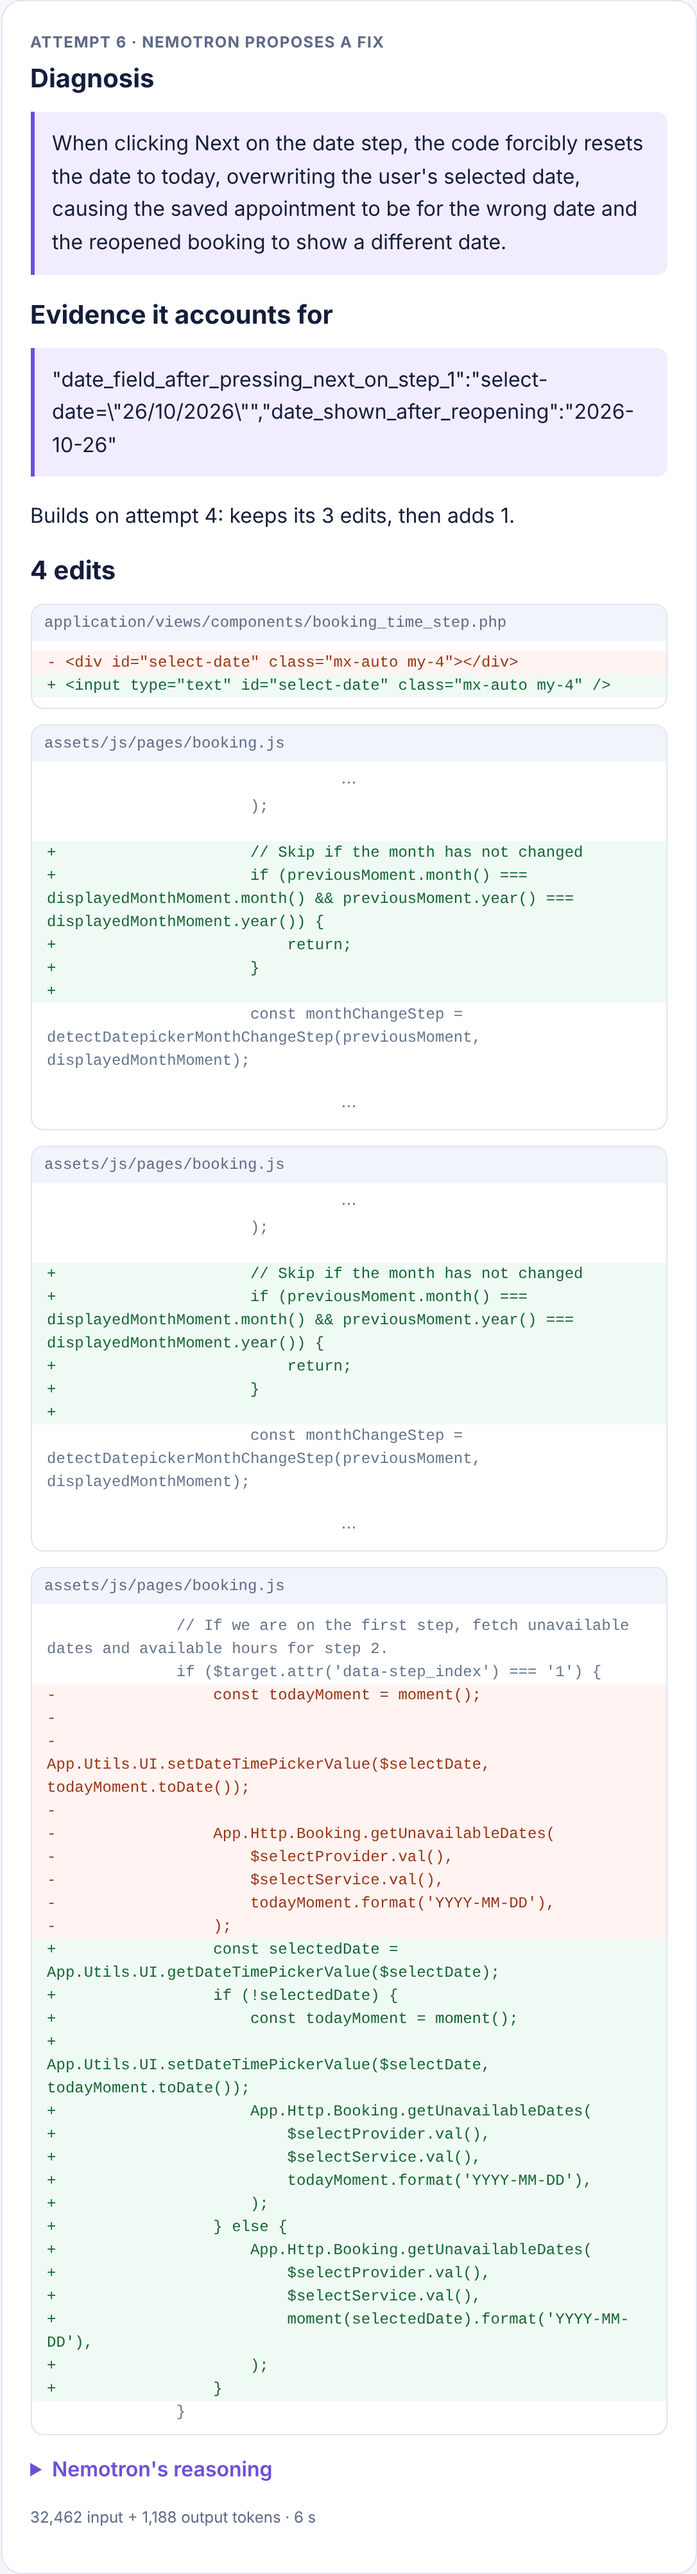
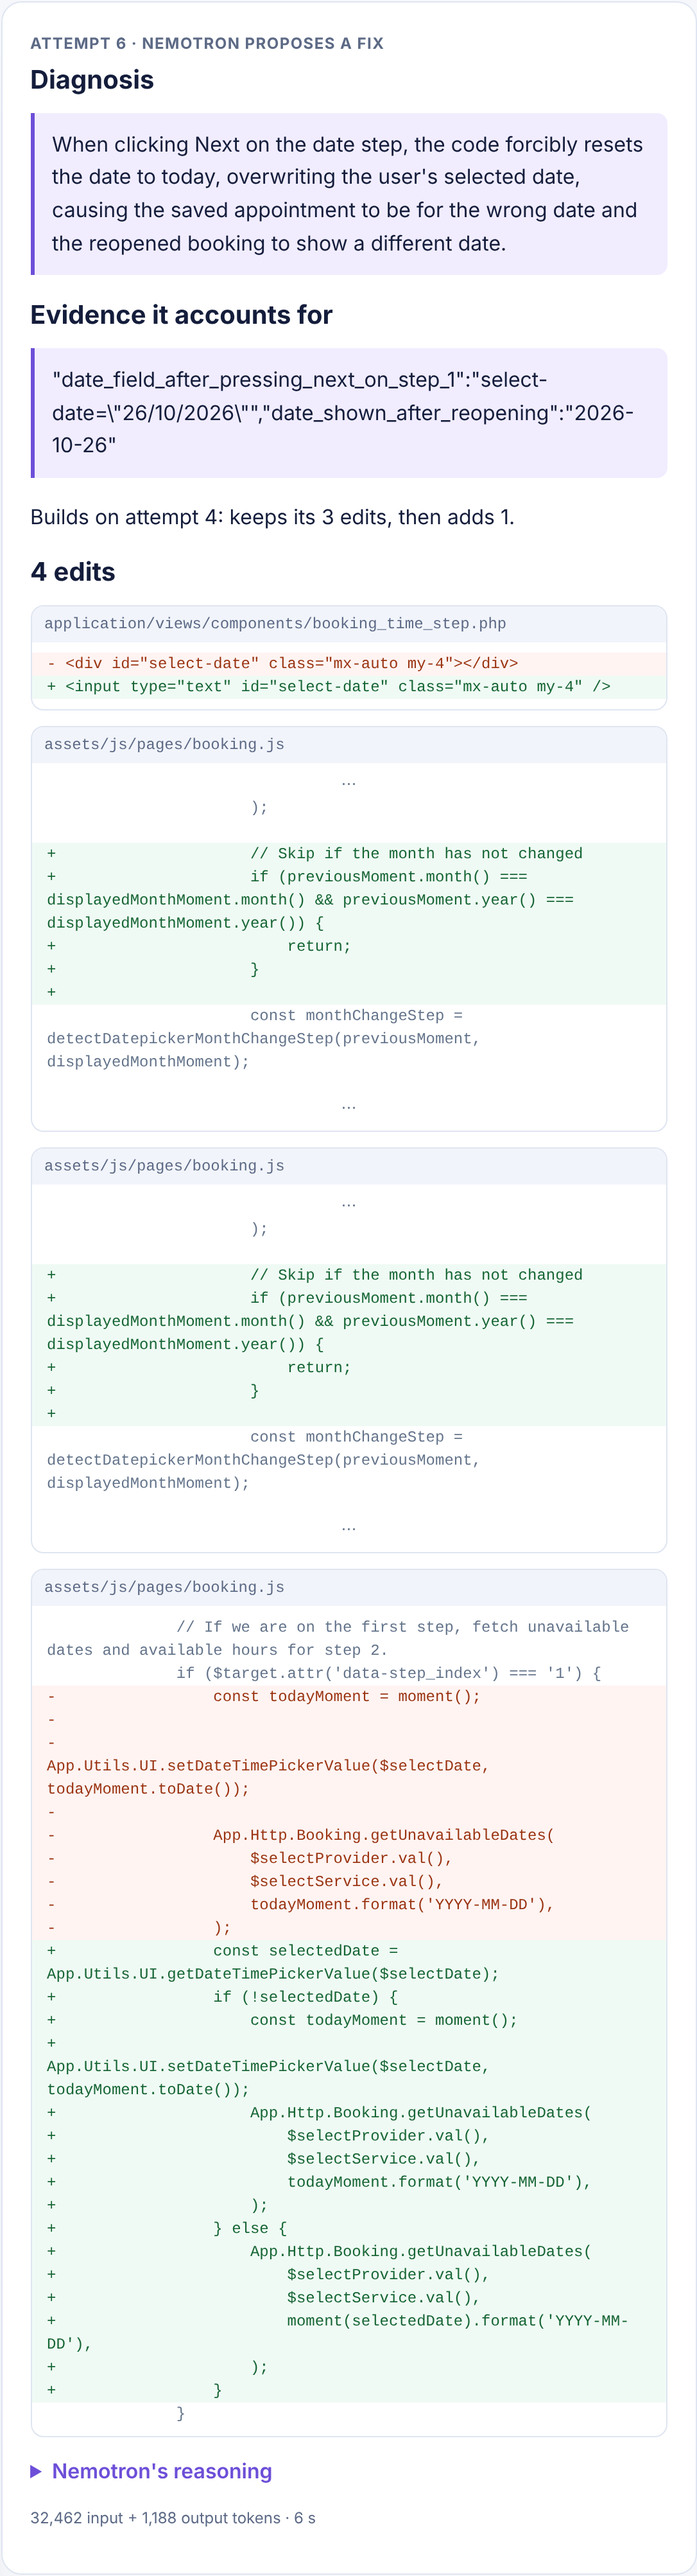
Re-cut the film: open on the rejected/verified pair, keyboard case first, phone as a control

diff --git a/scripts/render-agent-film.py b/scripts/render-agent-film.py
@@ -83,7 +83,7 @@ def faded(layer, alpha):
 class Card:
     """A real screenshot in a rounded white panel, with zoom or pan."""
     def __init__(self, name, box, mode='fit', start=(1.0, 0.5, 0.5), end=(1.08, 0.5, 0.5)):
-        self.src = Image.open(SHOTS / f'{name}.png').convert('RGB')
+        self.src = Image.open(name if isinstance(name, pathlib.Path) else SHOTS / f'{name}.png').convert('RGB')
         self.box, self.mode, self.start, self.end = box, mode, start, end
         x0, y0, x1, y1 = box
         self.w, self.h = x1 - x0, y1 - y0
@@ -155,14 +155,10 @@ RIGHT = (900, 110, 1800, 900)
 
 
 def scene_hero():
-    l1 = text_layer([((0, 0), 'The AI says “fixed.”', font('InterDisplay-Bold', 110), WHITE, None, 1)], (1800, 160))
-    l2 = text_layer([((0, 0), 'Did the booking actually get saved?', font('InterDisplay-Bold', 78), BLUE, None, 1)], (1800, 120))
-    brand = text_layer([((160, 120), 'AccessFinish', font('Inter-Bold', 34), WHITE, None, 1),
-                        ((160, 168), 'NVIDIA Nemotron · Nebius Token Factory', font('Inter-Medium', 24), MUTED, None, 1)])
+    """Opens on the two "booked" pages from one run: attempt 2 rejected, attempt 6 verified."""
+    cover = Card(ROOT / 'media/readme/booked-vs-verified.png', (270, 24, 1650, 944), 'fit', (1.0, 0.5, 0.5), (1.04, 0.5, 0.45))
     def draw(frame, t, d):
-        frame.alpha_composite(faded(brand, clamp(t * d / 0.8)))
-        a = ease(clamp((t * d - 0.3) / 0.8)); frame.alpha_composite(faded(l1, a), (160, 400 - int((1 - a) * 30)))
-        b = ease(clamp((t * d - d * 0.55) / 0.8)); frame.alpha_composite(faded(l2, b), (160, 560 - int((1 - b) * 30)))
+        cover.draw(frame, t, ease(clamp(t * d / 0.5)))
     return draw
 
 
@@ -209,10 +205,10 @@ def scene_big_number():
 
 
 def scene_facts():
-    tiles = [(f"{phone['verified']}/{phone['runs']}", f"phone runs verified, {phone['first_attempt']} on the first attempt", GREEN),
-             (f"{kb_fixed}/{kb_tried}", f"keyboard runs fixed, no diagnosis supplied ({kb_span})", BLUE),
-             (str(keyboard['false_booked_caught']), 'false “booked” confirmations caught', ORANGE),
-             (f"${summary['cost_usd']:.2f}", f"of Nemotron for all {summary['runs']} live runs", WHITE)]
+    tiles = [(f"0/{keyboard['false_booked_caught']}", 'false “booked” fixes accepted', ORANGE),
+             (f"{kb_fixed}/{kb_tried}", f"real-bug runs fixed, no root cause given ({kb_span}; {keyboard['verified']} of {keyboard['runs']} overall)", BLUE),
+             (f"{phone['verified']}/{phone['runs']}", 'seeded control runs verified', GREEN),
+             (f"${summary['cost_usd']:.2f}", f"estimated Nemotron cost, all {summary['runs']} live runs", WHITE)]
     layers = []
     for value, label, colour in tiles:
         tile = Image.new('RGBA', (380, 400), (0, 0, 0, 0))
@@ -253,16 +249,10 @@ def combine(*parts):
 
 SCENES = {
     'hero': scene_hero(),
-    'phone-observe': scene_card('CASE 1 · SAVED PHONE', 'The page said “booked”. The database saved 0000000000.',
-                                Card('phone-observe', RIGHT, 'fit', (1.0, 0.5, 0.3), (1.12, 0.5, 0.75))),
-    'phone-propose': scene_card('NVIDIA NEMOTRON · NO DIAGNOSIS SUPPLIED', 'Nemotron finds the hard-coded value and writes the fix.',
-                                Card('phone-propose', RIGHT, 'fit', (1.0, 0.5, 0.4), (1.1, 0.5, 0.6))),
-    'phone-proof': scene_card('VERIFIED FOR REAL', 'Saved, reopened, and re-checked with a second customer.',
-                              Card('phone-proof', RIGHT, 'pan', (1, 0.5, 0.0), (1, 0.5, 1.0)),
-                              combine(fade_in(counter(f"{phone['verified']} / {phone['runs']}", f"live runs verified · {phone['first_attempt']} on the first attempt", GREEN, (120, 560), 130), 0.62),
-                                      pop(STAMP_VERIFIED, (1640, 860), 0.35))),
-    'keyboard-intro': scene_card('CASE 2 · A REAL UPSTREAM BUG', 'Tab can’t reach the date picker.',
+    'keyboard-intro': scene_card('A REAL UPSTREAM BUG · EASY!APPOINTMENTS', 'Tab can’t reach the date picker.',
                                  Card('kb-observe', RIGHT, 'fit', (1.0, 0.5, 0.3), (1.1, 0.5, 0.5))),
+    'keyboard-propose': scene_card('NVIDIA NEMOTRON · NO ROOT CAUSE GIVEN', 'Nemotron searches the code and writes a fix.',
+                                   Card('kb-propose', RIGHT, 'fit', (1.0, 0.5, 0.2), (1.1, 0.5, 0.5))),
     'keyboard-wrong': scene_card('THE CONFIRMATION LIED', '“Booked.” Saved for the wrong day.',
                                  Card('kb-compare', (860, 250, 1820, 700), 'fit', (1.0, 0.5, 0.5), (1.04, 0.5, 0.5)),
                                  pop(STAMP_REJECTED, (1340, 820), 0.42)),
@@ -270,10 +260,14 @@ SCENES = {
                                       Card('kb-history', (860, 150, 1820, 950), 'fit', (1.0, 0.0, 0.3), (1.1, 0.0, 0.7))),
     'keyboard-reopen': scene_card('A SECOND BUG', 'Saved correctly — but reopening shows today’s date.',
                                   Card('kb-reopen', RIGHT, 'fit', (1.25, 0.5, 0.35), (1.25, 0.5, 0.62))),
-    'keyboard-verified': scene_card('FIXED BY NEMOTRON · CAUSE NEVER GIVEN', 'Both bugs fixed. Saved, reopened, mouse path intact.',
+    'keyboard-verified': scene_card('FIXED BY NEMOTRON · NO ROOT CAUSE GIVEN', 'Both bugs fixed. Saved, reopened, mouse path intact.',
                                     Card('kb-proof', RIGHT, 'pan', (1, 0.5, 0.0), (1, 0.5, 1.0)),
                                     pop(STAMP_VERIFIED, (1640, 860), 0.4)),
     'finding': scene_big_number(),
+    'phone-control': scene_card('CALIBRATION CONTROL · A SEEDED FAULT', 'A planted wrong phone number: fixed in every run.',
+                                Card('phone-proof', RIGHT, 'pan', (1, 0.5, 0.0), (1, 0.5, 1.0)),
+                                combine(fade_in(counter(f"{phone['verified']} / {phone['runs']}", f"live runs verified · {phone['first_attempt']} on the first attempt", GREEN, (120, 560), 130), 0.45),
+                                        pop(STAMP_VERIFIED, (1640, 860), 0.3))),
     'facts': scene_facts(),
     'close': scene_close(),
 }
